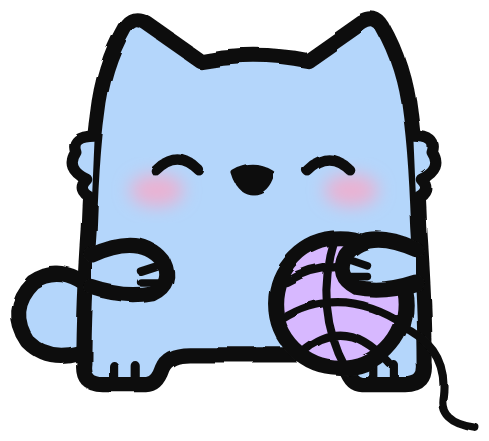
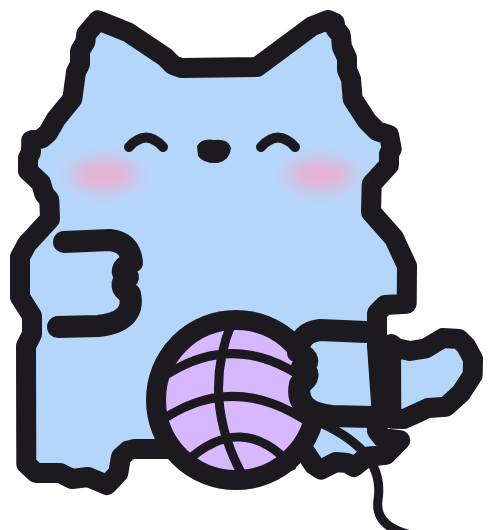
Az új cicák az eredeti körvonalára építve
A 9 rajzolt cica teste most az eredeti szívet ölelő cica valódi sziluettjéből
készül (széles fej oldalsó pamacsokkal, alacsony fülek, tömzsi lábak), a
mancsok az eredeti C alakú mancsok mintájára, vastag körvonallal.

Claude-Session: https://claude.ai/code/session_0147rMSUhfh921N6BdCdXTQF

diff --git a/app.js b/app.js
@@ -35,14 +35,14 @@
         "szomoru_shy1.png":       { x: 50, y: 21, w: 48, r: -5 },
         "szomoru_shy2.png":       { x: 37, y: 13, w: 45, r: -8 },
         "szomoru_takaro.png":     { x: 52, y: 41, w: 28, r: -5 },
-        "alvo_parna.png":         { x: 50, y: 44, w: 29, r: -6 },
-        "boldog_gombolyag.png":   { x: 52, y: 17, w: 41, r: -8 },
-        "boldog_hal.png":         { x: 44, y: 19, w: 44, r: -8 },
-        "boldog_level.png":       { x: 44, y: 19, w: 44, r: -8 },
-        "boldog_puszi_kuld.png":  { x: 43, y: 25, w: 43, r: -8 },
-        "karacsony_ajandek.png":  { x: 44, y: 19, w: 44, r: -8 },
-        "reggel_integet.png":     { x: 50, y: 35, w: 37, r: -8 },
-        "szomoru_konnyes.png":    { x: 44, y: 19, w: 44, r: -8 }
+        "alvo_parna.png":         { x: 49, y: 35, w: 36, r: -6 },
+        "boldog_gombolyag.png":   { x: 43, y: 13, w: 47, r: -6 },
+        "boldog_hal.png":         { x: 43, y: 13, w: 47, r: -6 },
+        "boldog_level.png":       { x: 43, y: 13, w: 47, r: -6 },
+        "boldog_puszi_kuld.png":  { x: 42, y: 19, w: 45, r: -6 },
+        "karacsony_ajandek.png":  { x: 43, y: 13, w: 47, r: -6 },
+        "reggel_integet.png":     { x: 50, y: 29, w: 38, r: -6 },
+        "szomoru_konnyes.png":    { x: 43, y: 13, w: 47, r: -6 }
         // az unnep_parti.png-n partisapka van, oda nem kell mikulássapka
     };
 

diff --git a/sw.js b/sw.js
@@ -1,6 +1,6 @@
 // Offline mód: a Kék Cica internet nélkül is működik.
 // Ha új verziót töltesz fel, emeld meg a VERZIO számot.
-const VERZIO = "kekcica-v5";
+const VERZIO = "kekcica-v6";
 const FAJLOK = [
     "./", "index.html", "style.css", "app.js", "beallitasok.js", "manifest.json",
     "apple-touch-icon.png", "ikon-192.png", "ikon-512.png",

diff --git a/forras/uj_cicak_rajzolo.py b/forras/uj_cicak_rajzolo.py
@@ -1,172 +1,139 @@
-# Új Kék Cica képek – az eredeti matricák stílusához igazítva:
-# tömzsi test, rövid széles fülek, oldalsó szőrpamacsok, pötty szemek, fekete orr, nincs száj,
-# ívelt vonalas kezek, kis ujjvonalak a lábon, kerek farok, enyhén remegő vonal.
-import os
-OUT = os.path.dirname(os.path.abspath(__file__)) + "/svg"
-KEK = "#b4d6fb"; ROZSA = "#fde3ee"; PIR = "#f7a9c8"; FEK = "#111"
-SW = 5.6
+# Új Kék Cica képek az eredeti szívet ölelő cica valódi körvonalára építve.
+import json, os, math
+A = json.load(open(os.path.dirname(os.path.abspath(__file__)) + '/alak.json'))
+OUT = os.path.dirname(os.path.abspath(__file__)) + '/svg'
+KEK = "#b4d6fb"; ROZSA = "#fde3ee"; PIR = "#f7a9c8"; FEK = "#1c1a1e"
+V = 20  # vonalvastagság (mint az eredetin)
 
-def svg(retegek):
-    t = ''
-    for durva, tart in retegek:
-        if durva:
-            t += f'<g filter="url(#r)" stroke="{FEK}" stroke-width="{SW}" stroke-linejoin="round" stroke-linecap="round">{tart}</g>'
-        else:
-            t += f'<g filter="url(#b)">{tart}</g>'
-    return f'''<svg xmlns="http://www.w3.org/2000/svg" viewBox="0 0 200 200">
-<defs>
-<filter id="r" x="-10%" y="-10%" width="120%" height="120%">
-<feTurbulence type="fractalNoise" baseFrequency="0.045" numOctaves="2" seed="3"/>
-<feDisplacementMap in="SourceGraphic" scale="2.6"/></filter>
-<filter id="b" x="-50%" y="-50%" width="200%" height="200%"><feGaussianBlur stdDeviation="3.2"/></filter>
-</defs>{t}</svg>'''
+def ut(pontok, zart=True):
+    return "M" + " L".join(f"{x} {y}" for x, y in pontok) + (" Z" if zart else "")
 
-def test(fark="jobb"):
+def tukor(pontok, cx=225):
+    return [[2 * cx - x, y] for x, y in pontok]
+
+def eltol(pontok, dx=0, dy=0, sy=1, y0=0):
+    return [[x + dx, y0 + (y - y0) * sy + dy] for x, y in pontok]
+
+TEST = A["test"]; FAROK = A["farok"]; MANCS = A["mancs"]
+
+def vonal(d, fill="none", w=V):
+    return f'<path d="{d}" fill="{fill}" stroke="{FEK}" stroke-width="{w}" stroke-linejoin="round" stroke-linecap="round"/>'
+
+def test(farok=True, test_pontok=None):
     t = ''
-    if fark == "jobb":
-        t += f'<path d="M156 146 Q170 132 182 140 Q192 150 184 162 Q174 172 158 164" fill="{KEK}"/>'
-    elif fark == "bal":
-        t += f'<path d="M44 146 Q30 132 18 140 Q8 150 16 162 Q26 172 42 164" fill="{KEK}"/>'
-    t += (f'<path d="M42 78 Q44 60 52 46 Q55 41 60 44 L80 58 Q100 54 120 58 L140 44 Q145 41 148 46 '
-          f'Q156 60 158 78 Q160 92 161 120 Q163 150 163 170 Q164 178 156 178 L140 178 Q136 178 134 172 '
-          f'Q132 167 124 167 L76 167 Q68 167 66 172 Q64 178 60 178 L44 178 Q36 178 37 170 '
-          f'Q37 150 39 120 Q40 92 42 78 Z" fill="{KEK}"/>')
-    # oldalsó szőrpamacsok
-    t += (f'<path d="M41 86 Q32 86 34 92 Q30 98 38 102 Q34 106 40 109" fill="{KEK}" stroke-width="4.2"/>'
-          f'<path d="M159 86 Q168 86 166 92 Q170 98 162 102 Q166 106 160 109" fill="{KEK}" stroke-width="4.2"/>')
-    # ujjvonalak a lábakon
-    t += ('<path d="M48 178 L48 171 M56 178 L56 171 M144 178 L144 171 M152 178 L152 171" fill="none" stroke-width="3.4"/>')
+    if farok:
+        t += vonal(ut(FAROK), KEK)
+    t += vonal(ut(test_pontok or TEST), KEK)
     return t
 
 def pir(nagy=False):
     if nagy:
-        return f'<ellipse cx="100" cy="102" rx="46" ry="10" fill="{PIR}" opacity=".75"/>'
-    return (f'<ellipse cx="64" cy="106" rx="10" ry="6" fill="{PIR}" opacity=".8"/>'
-            f'<ellipse cx="136" cy="106" rx="10" ry="6" fill="{PIR}" opacity=".8"/>')
+        return f'<ellipse cx="225" cy="185" rx="120" ry="24" fill="{PIR}" opacity=".75" filter="url(#b)"/>'
+    return (f'<ellipse cx="118" cy="195" rx="34" ry="15" fill="{PIR}" opacity=".85" filter="url(#b)"/>'
+            f'<ellipse cx="334" cy="195" rx="34" ry="15" fill="{PIR}" opacity=".85" filter="url(#b)"/>')
 
-def arc(szem="pont"):
-    t = ''
-    if szem == "pont":
-        t += f'<circle cx="72" cy="96" r="3.4" fill="{FEK}" stroke-width="1"/><circle cx="128" cy="96" r="3.4" fill="{FEK}" stroke-width="1"/>'
-    elif szem == "csukott":
-        t += '<path d="M64 96 Q72 101 80 96 M120 96 Q128 101 136 96" fill="none" stroke-width="3.8"/>'
-    elif szem == "boldog":
-        t += '<path d="M64 99 Q72 91 80 99 M120 99 Q128 91 136 99" fill="none" stroke-width="3.8"/>'
-    elif szem == "konnyes":
-        t += f'<circle cx="72" cy="96" r="3.6" fill="{FEK}" stroke-width="1"/><circle cx="128" cy="96" r="3.6" fill="{FEK}" stroke-width="1"/>'
-        t += '<path d="M73 103 Q68 113 72 117 Q77 113 73 103 Z" fill="#9fd0ff" stroke-width="2.4"/>'
-    t += f'<path d="M93 100 Q100 96 107 100 Q105 107 100 107 Q95 107 93 100 Z" fill="{FEK}" stroke-width="2"/>'
-    return t
+def orr(x=228, y=172):
+    return (f'<path d="M{x-17} {y-6} Q{x-12} {y-14} {x} {y-12} Q{x+14} {y-14} {x+17} {y-4} '
+            f'Q{x+16} {y+8} {x+4} {y+11} Q{x-10} {y+12} {x-16} {y+4} Z" fill="{FEK}"/>')
 
-def kez(x, y, tukor=False, fogas=True):
-    """Ívelt, kék kitöltésű kéz az eredeti matricák mintájára, kis ujjvonalakkal."""
-    s = -1 if tukor else 1
-    d = (f'M{x} {y} Q{x + s*18} {y - 8} {x + s*26} {y + 2} Q{x + s*30} {y + 10} {x + s*22} {y + 14} '
-         f'Q{x + s*12} {y + 16} {x} {y + 12}')
-    t = f'<path d="{d}" fill="{KEK}"/>'
-    if fogas:
-        t += (f'<path d="M{x + s*24} {y + 4} L{x + s*18} {y + 6} M{x + s*24} {y + 10} L{x + s*18} {y + 10}" '
-              f'fill="none" stroke-width="2.8"/>')
-    return t
+def szemek(fajta="pont"):
+    L, R, Y = 160, 292, 160
+    if fajta == "pont":
+        return f'<circle cx="{L}" cy="{Y}" r="11" fill="{FEK}"/><circle cx="{R}" cy="{Y}" r="11" fill="{FEK}"/>'
+    if fajta == "boldog":
+        return vonal(f"M{L-17} {Y+7} Q{L} {Y-12} {L+17} {Y+7} M{R-17} {Y+7} Q{R} {Y-12} {R+17} {Y+7}", w=10)
+    if fajta == "csukott":
+        return vonal(f"M{L-17} {Y-2} Q{L} {Y+12} {L+17} {Y-2} M{R-17} {Y-2} Q{R} {Y+12} {R+17} {Y-2}", w=10)
+    if fajta == "konnyes":
+        return (f'<circle cx="{L}" cy="{Y}" r="15" fill="#fff" stroke="{FEK}" stroke-width="7"/><circle cx="{L+3}" cy="{Y+2}" r="6" fill="{FEK}"/>'
+                f'<circle cx="{R}" cy="{Y}" r="15" fill="#fff" stroke="{FEK}" stroke-width="7"/><circle cx="{R+3}" cy="{Y+2}" r="6" fill="{FEK}"/>'
+                f'<path d="M{L+4} {Y+22} Q{L-8} {Y+46} {L+4} {Y+54} Q{L+16} {Y+46} {L+4} {Y+22} Z" fill="#9fd0ff" stroke="{FEK}" stroke-width="6"/>')
 
-def kar_fel(x, y, tukor=False):
-    """Felemelt kar (integet / ünnepel)."""
-    s = -1 if tukor else 1
-    return (f'<path d="M{x} {y} Q{x + s*16} {y - 18} {x + s*14} {y - 40} Q{x + s*13} {y - 52} {x + s*24} {y - 52} '
-            f'Q{x + s*34} {y - 50} {x + s*30} {y - 36} Q{x + s*30} {y - 12} {x + s*10} {y + 14}" fill="{KEK}"/>'
-            f'<path d="M{x + s*18} {y - 50} L{x + s*20} {y - 44} M{x + s*26} {y - 50} L{x + s*25} {y - 44}" fill="none" stroke-width="2.6"/>')
+def arc(szem="pont", nagy_pir=False):
+    return pir(nagy_pir) + szemek(szem) + orr()
+
+def mancs(x, y, irany=1, h=84, w=68):
+    """Az eredeti C alakú mancs: felső vonal ki, oldalt két kis ujjdudor, alul vissza a testhez."""
+    s = irany
+    d = (f"M{x} {y} L{x + s*(w-22)} {y-2} Q{x + s*(w-2)} {y} {x + s*w} {y + h*0.24} "
+         f"Q{x + s*(w-16)} {y + h*0.33} {x + s*(w-4)} {y + h*0.42} "
+         f"Q{x + s*(w-16)} {y + h*0.52} {x + s*(w-2)} {y + h*0.62} "
+         f"Q{x + s*(w+4)} {y + h*0.95} {x + s*(w-34)} {y + h} L{x - s*6} {y + h + 1}")
+    return f'<path d="{d} Z" fill="{KEK}"/>' + vonal(d, w=V + 2)
+
+# az eredeti mancsok helye (szívet ölelő kép): bal 78,262 – jobb 372,262
+def mancs_bal(dx=0, dy=0):
+    return mancs(78 + dx, 262 + dy, 1)
+
+def mancs_jobb(dx=0, dy=0):
+    return mancs(372 + dx, 262 + dy, -1)
+
+def kar_fel(vall, vege, oldal=1):
+    """Felemelt kar a test mögül: vastag kék cső fekete kontúrral, kerek mancs a végén."""
+    (x0, y0), (x1, y1) = vall, vege
+    cx, cy = (x0 + x1) / 2 + 50 * oldal, (y0 + y1) / 2 + 30
+    d = f"M{x0} {y0} Q{cx} {cy} {x1} {y1}"
+    return (f'<path d="{d}" fill="none" stroke="{FEK}" stroke-width="{70 + 2*V}" stroke-linecap="round"/>'
+            f'<path d="{d}" fill="none" stroke="{KEK}" stroke-width="70" stroke-linecap="round"/>'
+            + vonal(f"M{x1 - 12 * oldal} {y1 - 18} L{x1 - 10 * oldal} {y1 - 4} M{x1 + 6 * oldal} {y1 - 20} L{x1 + 6 * oldal} {y1 - 6}", w=7))
+
+def svg(belso):
+    return f'''<svg xmlns="http://www.w3.org/2000/svg" viewBox="-70 -90 600 640">
+<defs><filter id="b" x="-50%" y="-50%" width="200%" height="200%"><feGaussianBlur stdDeviation="9"/></filter></defs>
+{belso}
+</svg>'''
 
 kepek = {}
 
-# 1) Halat eszik
-kepek["boldog_hal"] = svg([
-    (True, test()), (False, pir()), (True, arc("boldog") +
-     f'<path d="M54 132 Q80 112 112 126 L134 110 L132 150 L112 136 Q80 152 54 132 Z" fill="#ffb86b"/>'
-     f'<circle cx="68" cy="128" r="2.8" fill="{FEK}" stroke-width="1"/><path d="M88 122 Q93 130 88 138" fill="none" stroke-width="2.8"/>' +
-     kez(40, 124) + kez(160, 120, tukor=True))
-])
+hal = (f'<path d="M128 302 Q178 254 256 284 L310 250 Q320 246 318 258 L312 302 L318 346 Q320 358 310 354 L256 320 Q178 350 128 302 Z" '
+       f'fill="#ffb86b" stroke="{FEK}" stroke-width="16" stroke-linejoin="round"/>'
+       f'<circle cx="160" cy="296" r="9" fill="{FEK}"/>' + vonal("M200 280 Q212 302 200 324", w=9) + vonal("M226 282 Q238 302 226 322", w=9))
+kepek["boldog_hal"] = svg(test() + arc("boldog") + hal + mancs_bal(0, 2) + mancs_jobb(0, 2))
 
-# 2) Gombolyaggal játszik
-kepek["boldog_gombolyag"] = svg([
-    (True, test(fark="bal")), (False, pir()), (True, arc("boldog") +
-     '<circle cx="132" cy="148" r="24" fill="#d7b8ff"/>'
-     '<path d="M112 140 Q132 128 152 142 M110 154 Q132 140 156 156 M118 166 Q134 152 150 170 M130 124 Q122 150 134 172" fill="none" stroke-width="3"/>'
-     '<path d="M154 156 Q172 164 170 182 Q168 192 182 194" fill="none" stroke-width="3"/>' +
-     kez(160, 128, tukor=True) + kez(40, 130))
-])
+level = (f'<g transform="rotate(-5 225 320)"><rect x="118" y="250" width="214" height="146" rx="14" fill="#fffaf0" stroke="{FEK}" stroke-width="{V}"/>'
+         + vonal("M122 262 L225 330 L328 262", w=14) +
+         f'<path d="M225 318 Q200 294 212 280 Q225 272 225 290 Q225 272 238 280 Q250 294 225 318 Z" fill="#ff5c8a" stroke="{FEK}" stroke-width="8"/></g>')
+kepek["boldog_level"] = svg(test() + arc("pont") + level + mancs_bal(0, 10) + mancs_jobb(0, 10))
 
-# 3) Párnán alszik (oldalt fekvő, összegömbölyödött)
-kepek["alvo_parna"] = svg([
-    (True, f'<path d="M10 152 Q8 122 38 120 L162 120 Q192 122 190 152 Q192 182 162 184 L38 184 Q8 182 10 152 Z" fill="{ROZSA}"/>'
-           f'<path d="M30 152 L170 152" fill="none" stroke="{PIR}" stroke-width="2.5"/>'
-           f'<path d="M34 146 Q30 104 52 98 L60 72 Q62 68 66 72 L82 88 Q100 84 118 88 L134 72 Q138 68 140 72 L148 98 '
-           f'Q174 106 168 146 Q164 160 100 160 Q38 160 34 146 Z" fill="{KEK}"/>'
-           f'<path d="M150 150 Q178 148 176 128 Q174 116 162 120 Q168 136 148 140" fill="{KEK}"/>'
-           '<path d="M38 112 L28 110 L35 117 L27 121 L37 124" fill="none" stroke-width="3.8"/>'),
-    (False, '<ellipse cx="70" cy="128" rx="9" ry="5" fill="#f7a9c8" opacity=".8"/><ellipse cx="130" cy="128" rx="9" ry="5" fill="#f7a9c8" opacity=".8"/>'),
-    (True, '<path d="M66 118 Q74 123 82 118 M118 118 Q126 123 134 118" fill="none" stroke-width="3.8"/>'
-           f'<path d="M94 122 Q100 119 106 122 Q104 128 100 128 Q96 128 94 122 Z" fill="{FEK}" stroke-width="2"/>'
-           ''),
-    (False, ''),
-    (True, '<text x="150" y="62" font-family="Arial Rounded MT Bold, Arial" font-weight="900" font-size="24" fill="#8a7fd1" stroke="none">z</text>'
-           '<text x="166" y="40" font-family="Arial Rounded MT Bold, Arial" font-weight="900" font-size="32" fill="#8a7fd1" stroke="none">Z</text>')
-])
+ajandek = (f'<rect x="125" y="250" width="200" height="170" rx="12" fill="#ff6b81" stroke="{FEK}" stroke-width="{V}"/>'
+           f'<path d="M225 252 L225 418 M127 322 L323 322" stroke="#fff3b0" stroke-width="24"/>'
+           f'<rect x="125" y="250" width="200" height="170" rx="12" fill="none" stroke="{FEK}" stroke-width="{V}"/>'
+           f'<path d="M225 252 Q170 196 160 236 Q160 262 225 252 Q280 196 290 236 Q290 262 225 252 Z" fill="#fff3b0" stroke="{FEK}" stroke-width="12" stroke-linejoin="round"/>')
+kepek["karacsony_ajandek"] = svg(test() + arc("pont") + ajandek + mancs_bal(0, 20) + mancs_jobb(0, 20))
 
-# 4) Jó reggelt: integet, mellette a nap
-kepek["reggel_integet"] = svg([
-    (True, '<circle cx="28" cy="30" r="17" fill="#ffd86b"/>'
-           '<path d="M28 4 L28 9 M28 51 L28 56 M2 30 L7 30 M49 30 L54 30 M10 12 L14 16 M42 44 L46 48 M46 12 L42 16 M10 48 L14 44" fill="none" stroke-width="3.4"/>' +
-           test()), (False, pir()),
-    (True, arc("pont") + kar_fel(150, 112) + kez(40, 126) +
-           '<path d="M188 52 Q194 60 190 68 M192 40 Q200 50 196 62" fill="none" stroke-width="2.8"/>')
-])
+gomb = (f'<circle cx="250" cy="420" r="80" fill="#d7b8ff" stroke="{FEK}" stroke-width="{V}"/>'
+        + vonal("M180 395 Q250 350 320 400 M176 440 Q250 390 328 446 M200 482 Q256 430 306 486 M246 342 Q214 420 258 498", w=9)
+        + vonal("M328 440 Q400 470 392 520 Q388 548 430 556", w=9))
+kepek["boldog_gombolyag"] = svg(test(farok=True) + arc("boldog") + gomb + mancs_bal(0, 0) + mancs(380, 352, -1))
 
-# 5) Cetlit / levelet hoz
-kepek["boldog_level"] = svg([
-    (True, test()), (False, pir()), (True, arc("pont") +
-     '<g transform="rotate(-5 100 146)"><rect x="64" y="124" width="72" height="48" rx="5" fill="#fffaf0"/>'
-     '<path d="M64 128 L100 150 L136 128" fill="none" stroke-width="3.6"/>'
-     '<path d="M100 145 Q93 138 97 134 Q100 132 100 136 Q100 132 103 134 Q107 138 100 145 Z" fill="#ff5c8a" stroke-width="2.2"/></g>' +
-     kez(42, 132) + kez(158, 128, tukor=True))
-])
+kepek["szomoru_konnyes"] = svg(test() + arc("konnyes", nagy_pir=True) + mancs(120, 250, 1, h=70, w=60) + mancs(330, 250, -1, h=70, w=60))
 
-# 6) Ünnepel partisapkában, konfettivel
-konf = "".join(f'<rect x="{x}" y="{y}" width="8" height="5" rx="1.5" fill="{c}" stroke="none" transform="rotate({r} {x} {y})"/>'
-               for x, y, c, r in [(14,60,"#ff7aa2",20),(24,110,"#7ec8ff",-30),(182,110,"#ffd166",40),(188,70,"#b48cf2",-10),
-                                  (12,150,"#7ad7a8",15),(186,150,"#ff7aa2",-25),(40,24,"#ffd166",-40),(162,20,"#7ec8ff",30)])
-kepek["unnep_parti"] = svg([
-    (True, konf + test(fark=None)), (False, pir()),
-    (True, arc("boldog") +
-     '<path d="M82 56 L100 8 L118 56 Z" fill="#ffd166"/>'
-     '<path d="M88 40 L112 40 M93 26 L107 26" fill="none" stroke="#ff7aa2" stroke-width="3.6"/>'
-     '<circle cx="100" cy="8" r="6.5" fill="#ff7aa2"/>' +
-     kar_fel(150, 118) + kar_fel(50, 118, tukor=True))
-])
+nap = (f'<circle cx="-5" cy="-20" r="48" fill="#ffd86b" stroke="{FEK}" stroke-width="14"/>'
+       + vonal("M-5 -90 L-5 -78 M-5 38 L-5 50 M-75 -20 L-63 -20 M53 -20 L65 -20 M-55 -70 L-46 -61 M36 21 L45 30 M45 -70 L36 -61 M-55 30 L-46 21", w=10))
+kepek["reggel_integet"] = svg(nap + kar_fel((350, 300), (455, 95), 1) + test() + arc("pont") + mancs_bal() +
+                              vonal("M480 60 Q500 84 486 108 M496 30 Q526 66 508 104", w=8))
 
-# 7) Karácsonyi ajándékot ad
-kepek["karacsony_ajandek"] = svg([
-    (True, test()), (False, pir()), (True, arc("pont") +
-     '<rect x="66" y="120" width="68" height="52" rx="4" fill="#ff6b81"/>'
-     '<path d="M100 120 L100 172 M66 142 L134 142" fill="none" stroke="#fff3b0" stroke-width="7"/>'
-     '<rect x="66" y="120" width="68" height="52" rx="4" fill="none"/>'
-     '<path d="M100 120 Q84 102 80 114 Q80 122 100 120 Q116 102 120 114 Q120 122 100 120 Z" fill="#fff3b0" stroke-width="3.6"/>' +
-     kez(42, 132) + kez(158, 132, tukor=True))
-])
+konf = "".join(f'<rect x="{x}" y="{y}" width="24" height="15" rx="4" fill="{c}" transform="rotate({r} {x} {y})"/>'
+               for x, y, c, r in [(-40, 90, "#ff7aa2", 20), (-30, 260, "#7ec8ff", -30), (480, 300, "#ffd166", 40), (500, 140, "#b48cf2", -10),
+                                  (-50, 420, "#7ad7a8", 15), (490, 440, "#ff7aa2", -25), (40, -60, "#ffd166", -40), (420, -70, "#7ec8ff", 30)])
+sapka = (f'<path d="M180 72 L232 -70 L280 66 Z" fill="#ffd166" stroke="{FEK}" stroke-width="{V}" stroke-linejoin="round"/>'
+         f'<path d="M198 22 L262 22 M212 -20 L250 -20" stroke="#ff7aa2" stroke-width="12" stroke-linecap="round"/>'
+         f'<circle cx="232" cy="-74" r="20" fill="#ff7aa2" stroke="{FEK}" stroke-width="12"/>')
+kepek["unnep_parti"] = svg(konf + kar_fel((100, 300), (-15, 95), -1) + kar_fel((350, 300), (465, 95), 1) + test(farok=False) + arc("boldog") + sapka)
 
-# 8) Szomorú, könnyes (kezét összetéve, mint a félénk eredeti)
-kepek["szomoru_konnyes"] = svg([
-    (True, test()), (False, pir(nagy=True)), (True, arc("konnyes") +
-     kez(56, 132) + kez(144, 132, tukor=True))
-])
+szivek = (f'<path d="M470 120 Q430 84 450 64 Q470 52 476 78 Q484 52 504 62 Q522 84 470 120 Z" fill="#ff5c8a" stroke="{FEK}" stroke-width="10" stroke-linejoin="round"/>'
+          f'<path d="M430 30 Q410 12 420 2 Q430 -4 433 9 Q437 -4 447 1 Q456 12 430 30 Z" fill="#ff8fb0" stroke="{FEK}" stroke-width="8" stroke-linejoin="round"/>')
+kepek["boldog_puszi_kuld"] = svg(kar_fel((350, 300), (430, 135), 1) + test() + arc("csukott") + mancs_bal() + szivek)
 
-# 9) Puszit küld
-kepek["boldog_puszi_kuld"] = svg([
-    (True, test()), (False, pir()), (True, arc("csukott") +
-     kar_fel(150, 116) + kez(40, 128) +
-     '<path d="M182 72 Q170 60 176 54 Q182 50 184 58 Q186 50 192 54 Q198 60 184 72 Z" fill="#ff5c8a" stroke-width="2.6"/>'
-     '<path d="M170 40 Q163 33 167 29 Q171 27 172 32 Q173 27 177 29 Q181 33 172 40 Z" fill="#ff8fb0" stroke-width="2.2"/>')
-])
+# Párnán alvó: az eredeti test laposra nyomva ("cipó" póz)
+lapos = eltol(TEST, 0, 60, sy=0.62, y0=0)
+parna = (f'<path d="M-40 400 Q-46 320 40 316 L410 316 Q496 320 490 400 Q496 480 410 486 L40 486 Q-46 480 -40 400 Z" fill="{ROZSA}" stroke="{FEK}" stroke-width="{V}"/>'
+         f'<path d="M10 400 L440 400" stroke="{PIR}" stroke-width="8" stroke-linecap="round"/>')
+alvo_arc = (f'<g transform="translate(0 70) scale(1 .9)">' + pir() + szemek("csukott") + orr() + '</g>')
+zzz = ('<text x="420" y="60" font-family="Arial Rounded MT Bold, Arial" font-weight="900" font-size="70" fill="#8a7fd1">z</text>'
+       '<text x="470" y="-10" font-family="Arial Rounded MT Bold, Arial" font-weight="900" font-size="96" fill="#8a7fd1">Z</text>')
+kepek["alvo_parna"] = svg(parna + vonal(ut(eltol(FAROK, 0, 60, sy=0.62)), KEK) + vonal(ut(lapos), KEK) + alvo_arc + zzz)
 
 for nev, s in kepek.items():
     open(f"{OUT}/{nev}.svg", "w").write(s)
-print(len(kepek), "kép")
+print(len(kepek))

diff --git a/forras/alak/kinyer.py b/forras/alak/kinyer.py
@@ -1,0 +1,34 @@
+# Az eredeti szívet ölelő cica (boldog_sziv_olel.png) körvonalainak kinyerése:
+# test sziluett (farok nélkül), bal kéz (mancs) és farok.
+import cv2, numpy as np, json
+im = cv2.imread('/home/claude/feldolg/ki/boldog_sziv_olel.png', cv2.IMREAD_UNCHANGED)
+a = im[:, :, 3] > 128
+rgb = im[:, :, :3][:, :, ::-1].astype(int)
+lum = rgb @ [0.299, 0.587, 0.114]
+ink = (lum < 110) & a
+VAST = 20  # az eredeti körvonal vastagsága px-ben
+
+def kontur(maszk, eps=1.6, simit=3):
+    m = maszk.astype(np.uint8) * 255
+    cs, _ = cv2.findContours(m, cv2.RETR_EXTERNAL, cv2.CHAIN_APPROX_NONE)
+    c = max(cs, key=cv2.contourArea)[:, 0, :].astype(float)
+    if simit:
+        k = np.ones(simit) / simit
+        c = np.stack([np.convolve(np.r_[c[-simit:, i], c[:, i], c[:simit, i]], k, 'same')[simit:-simit] for i in (0, 1)], 1)
+    c = cv2.approxPolyDP(c.astype(np.float32).reshape(-1, 1, 2), eps, True)[:, 0, :]
+    return [[round(float(x), 1), round(float(y), 1)] for x, y in c]
+
+ker = cv2.getStructuringElement(cv2.MORPH_ELLIPSE, (VAST + 1, VAST + 1))
+# test: farok levágva, lyukak kitöltve, a vonal közepére erodálva
+test = a.copy(); test[335:450, 402:] = False
+test = cv2.morphologyEx(test.astype(np.uint8), cv2.MORPH_CLOSE, np.ones((9, 9), np.uint8))
+test = cv2.erode(test, cv2.getStructuringElement(cv2.MORPH_ELLIPSE, (VAST // 2 * 2 + 1,) * 2)) > 0
+# farok
+farok = np.zeros_like(a); farok[335:450, 395:] = a[335:450, 395:]
+farok = cv2.erode(farok.astype(np.uint8), cv2.getStructuringElement(cv2.MORPH_ELLIPSE, (VAST // 2 * 2 + 1,) * 2)) > 0
+# bal mancs: a tinta a dobozon belül
+mancs = np.zeros_like(a); mancs[245:358, 72:158] = ink[245:358, 72:158]
+mancs = cv2.morphologyEx(mancs.astype(np.uint8), cv2.MORPH_CLOSE, np.ones((5, 5), np.uint8)) > 0
+out = {"test": kontur(test), "farok": kontur(farok), "mancs": kontur(mancs, eps=1.2, simit=0), "meret": [im.shape[1], im.shape[0]]}
+json.dump(out, open('alak.json', 'w'))
+print({k: len(v) for k, v in out.items()})
